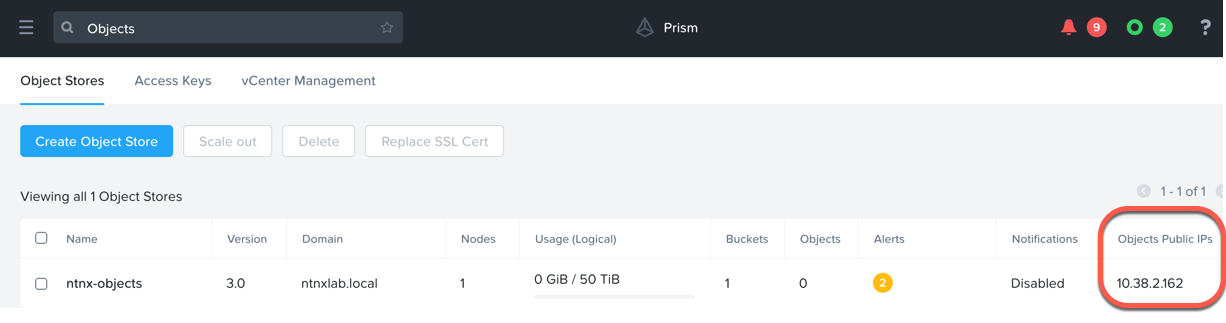
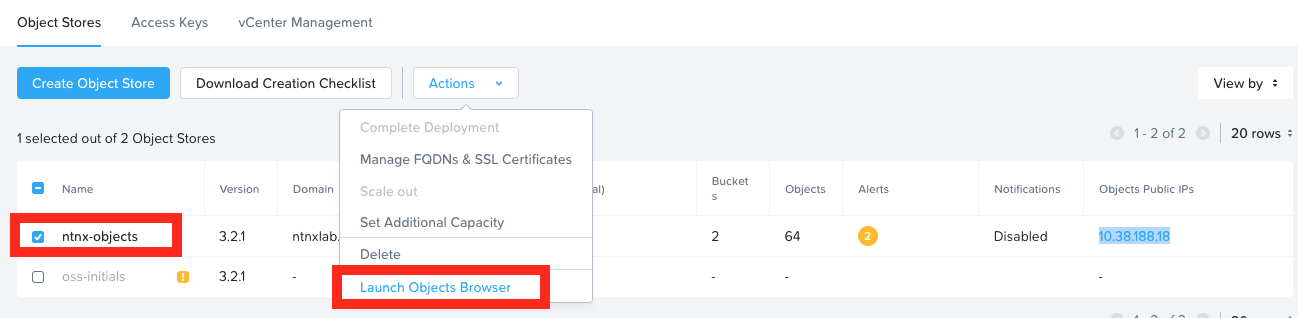
Mon 20 Dec 2021 19:35:54 JST

diff --git a/objects_cli_scripts/objects_cli_scripts.rst b/objects_cli_scripts/objects_cli_scripts.rst
@@ -23,7 +23,12 @@ You will need the **Access Key** and **Secret Key** for the user created earlier
 Setting up s3cmd (CLI)
 ......................
 
-#. From the *initials*-**Linux-ToolsVM**, run ``s3cmd --configure`` and enter the following to configure access to the Object Store:
+#. Login to the *initials*-**Linux-ToolsVM**, with the following credentials
+
+   - **Username** - root
+   - **Password** - default nutanix password
+
+#. Run ``s3cmd --configure`` and enter the following to configure access to the Object Store:
 
    .. note::
 
@@ -111,8 +116,10 @@ Create A Bucket And Add Objects To It Using s3cmd (CLI)
 
    .. code-block:: bash
 
-    curl https://s3.amazonaws.com/get-ahv-images/sample-pictures.zip [s3.amazonaws.com] -O -J -L
-    unzip sample-pictures.zip
+    curl https://peerresources.blob.core.windows.net/sample-data/SampleData_Small.zip -O -J -L
+    mkdir sample-pictures
+    #extract only the picture files
+    unzip -j SampleData_Small.zip *.png -d sample-pictures
 
 #. List images in sample-pictures folder
 
@@ -128,17 +135,20 @@ Create A Bucket And Add Objects To It Using s3cmd (CLI)
 
    .. code-block:: bash
 
-     s3cmd put --acl-public --guess-mime-type $IMAGENAME s3://<your-bucket-name>/$IMAGENAME.jpg
-
+     cd sample-pictures
+     s3cmd put --acl-public --guess-mime-type $IMAGENAME s3://<your-bucket-name>/$IMAGENAME
+     
 #. You should see the following output:
 
    .. code-block:: bash
 
-     s3://yourname-clibucket/image01.jpg
-     WARNING: Module python-magic is not available. Guessing MIME types based on file extensions.
-     upload: 'image01.jpg' -> 's3://xyz-cli-bob-bucket/image01.jpg'  [1 of 1]
-     1048576 of 1048576   100% in    7s   142.74 kB/s  done
-     Public URL of the object is: http://10.20.95.51:7200/xyz-cli-bob-bucket/image01.jpg
+     #example command and output 
+     
+     s3cmd put --acl-public --guess-mime-type yahoo-identity-provider-config.png s3://lb-cli-bucket/yahoo-identity-provider-config.png
+
+     upload: 'yahoo-identity-provider-config.png' -> 's3://lb-cli-bucket/yahoo-identity-provider-config.png'  [1 of 1]
+     63937 of 63937   100% in    0s     4.51 MB/s  done
+     Public URL of the object is: http://10.38.188.18/lb-clibucket/yahoo-identity-provider-config.png
 
 #. If desired, repeat with more images.
 
@@ -173,104 +183,112 @@ In this exercise, you will modify a sample script to match your environment, whi
 #. From the *Initials*\ **-Linux-ToolsVM**, run ``vi list-buckets.py`` and paste in the script below. You will need to modify the **endpoint_ip**, **access_key_id**, and **secret_access_key** values before saving the script.
 
 
- .. note::
+   .. note::
 
-   If you are not comfortable with ``vi`` or alternative command line text editors, you can modify the script in a GUI text editor then paste the completed script into ``vi``.
+    If you are not comfortable with ``vi`` or alternative command line text editors, you can modify the script in a GUI text editor then paste the completed script into ``vi``.
 
-   In ``vi``, type ``i`` and then right-click to paste into the text file.
+    In ``vi``, type ``i`` and then right-click to paste into the text file.
 
-   Press **Ctrl + C** then type ``:wq`` and press **Return** to save the file.
+    Press **Ctrl + C** then type ``:wq`` and press **Return** to save the file.
 
- .. code-block:: python
+   .. code-block:: python
 
-   #!/usr/bin/python
+      #!/usr/bin/python
 
-   import boto3
-   import warnings
-   warnings.filterwarnings("ignore")
+      import boto3
+      import warnings
+      warnings.filterwarnings("ignore")
 
-   endpoint_ip= "OBJECT-STORE-IP" #Replace this value
-   access_key_id="ACCESS-KEY" #Replace this value
-   secret_access_key="SECRET-KEY" #Replace this value
-   endpoint_url= "https://"+endpoint_ip+":443"
+      endpoint_ip= "OBJECT-STORE-IP" #Replace this value
+      access_key_id="ACCESS-KEY" #Replace this value
+      secret_access_key="SECRET-KEY" #Replace this value
+      endpoint_url= "https://"+endpoint_ip+":443"
 
-   session = boto3.session.Session()
-   s3client = session.client(service_name="s3", aws_access_key_id=access_key_id, aws_secret_access_key=secret_access_key, endpoint_url=endpoint_url, verify=False)
+      session = boto3.session.Session()
+      s3client = session.client(service_name="s3", aws_access_key_id=access_key_id, aws_secret_access_key=secret_access_key, endpoint_url=endpoint_url, verify=False)
 
-   # list the buckets
-   response = s3client.list_buckets()
+      # list the buckets
+      response = s3client.list_buckets()
 
-   for b in response['Buckets']:
-     print (b['Name'])
+      for b in response['Buckets']:
+        print (b['Name'])
 
 #. Execute ``python list-buckets.py`` to run the script. Verify that the output lists any buckets you have created for using your first user account.
 
 #. Using the previous script as a base, and the `Boto 3 documentation <https://boto3.amazonaws.com/v1/documentation/api/latest/guide/s3-examples.html>`_, can you modify the script to create a **new** bucket and then list all buckets?
-
- .. note::
-
-   Totally stuck? Take a look at the completed script :download:`here <create-bucket.py>`
-
-   If attempting to download the script results in an Access Denied error, log out of any AWS accounts from your browser or open the download link in **Incognito (Private Browsing)** mode.
 
 Uploading Multiple Files to Buckets with Python
 ...............................................
 
 #. From the *Initials*\ **-Linux-ToolsVM**, run the following to create 100 1KB files to be used as sample data for uploading:
 
- .. code-block:: bash
+   .. code-block:: bash
 
-   mkdir sample-files
-   for i in {1..100}; do dd if=/dev/urandom of=sample-files/file$i bs=1024 count=1; done
+     cd ..;mkdir sample-files
+     for i in {1..100}; do dd if=/dev/urandom of=sample-files/file$i bs=1024 count=1; done
 
- While the sample files contain random data, these could just as easily be log files that need to be rolled over and automatically archived, surveillance video, employee records, and so on.
+   While the sample files contain random data, these could just as easily be log files that need to be rolled over and automatically archived, surveillance video, employee records, and so on.
 
-#. Modify your existing script or create a new script based on the example below:
+#. Create a new script based on the example below:
 
- .. code-block:: python
+   .. code-block:: python
 
-   #!/usr/bin/python
+    #!/usr/bin/python
 
-   import boto3
-   import glob
-   import re
-   import warnings
-   warnings.filterwarnings("ignore")
+    import boto3
+    import glob
+    import re
+    import warnings
+    warnings.filterwarnings("ignore")
 
-   # user defined variables
-   endpoint_ip= "OBJECT-STORE-IP" #Replace this value
-   access_key_id="ACCESS-KEY" #Replace this value
-   secret_access_key="SECRET-KEY" #Replace this value
-   bucket="BUCKET-NAME-TO-UPLOAD-TO" #Replace this value
-   name_of_dir="sample-files"
+    # user defined variables
+    endpoint_ip= "OBJECT-STORE-IP" #Replace this value
+    access_key_id="ACCESS-KEY" #Replace this value
+    secret_access_key="SECRET-KEY" #Replace this value
+    bucket="BUCKET-NAME-TO-UPLOAD-TO" #Replace this value
+    name_of_dir="sample-files"
 
-   # system variables
-   endpoint_url= "https://"+endpoint_ip+":443"
-   filepath = glob.glob("%s/*" % name_of_dir)
+    # system variables
+    endpoint_url= "https://"+endpoint_ip+":443"
+    filepath = glob.glob("%s/*" % name_of_dir)
 
-   # connect to object store
-   session = boto3.session.Session()
-   s3client = session.client(service_name="s3", aws_access_key_id=access_key_id, aws_secret_access_key=secret_access_key, endpoint_url=endpoint_url, verify=False)
+    # connect to object store
+    session = boto3.session.Session()
+    s3client = session.client(service_name="s3", aws_access_key_id=access_key_id, aws_secret_access_key=secret_access_key, endpoint_url=endpoint_url, verify=False)
 
-   # go through all the files in the directory and upload
-   for current in filepath:
-       full_file_path=current
-       m=re.search('sample-files/(.*)', current)
-       if m:
-         object_name=m.group(1)
-       print("Path to File:",full_file_path)
-       print("Object name:",object_name)
-       response = s3client.put_object(Bucket=bucket, Body=full_file_path, Key=object_name)
+    # go through all the files in the directory and upload
+    for current in filepath:
+        full_file_path=current
+        m=re.search('sample-files/(.*)', current)
+        if m:
+          object_name=m.group(1)
+        print("Path to File:",full_file_path)
+        print("Object name:",object_name)
+        response = s3client.put_object(Bucket=bucket, Body=full_file_path, Key=object_name)
 
- The `put_object <https://boto3.amazonaws.com/v1/documentation/api/latest/reference/services/s3.html?highlight=put_object#S3.Bucket.put_object>`_ method is used for the file upload. Optionally this method can be used to define the metadata, content type, permissions, expiration, and other key information associated with the object.
+   The `put_object <https://boto3.amazonaws.com/v1/documentation/api/latest/reference/services/s3.html?highlight=put_object#S3.Bucket.put_object>`_ method is used for the file upload. Optionally this method can be used to define the metadata, content type, permissions, expiration, and other key information associated with the object.
 
- Core S3 APIs resemble RESTful APIs for other web services, with PUT calls allowing for adding objects and associated settings/metadata, GET calls for reading objects or information about objects, and DELETE calls for removing objects.
+   Core S3 APIs resemble RESTful APIs for other web services, with PUT calls allowing for adding objects and associated settings/metadata, GET calls for reading objects or information about objects, and DELETE calls for removing objects.
 
-#. Execute the script and use Cyberduck to verify the sample files are available.
+   Execute the script and use the following command to verify that the sample files are available.
 
- .. figure:: images/buckets_18.png
+   .. code-block:: bash
+    
+    s3cmd ls s3://yourname-clibucket/
 
- Similar S3 SDKs are available for languages including Java, JavaScript, Ruby, Go, C++, and others, making it very simple to leverage Nutanix Buckets using your language of choice.
+    # example command and output
+
+    s3cmd ls s3://lb-clibucket/
+
+    2021-12-20 05:56        18   s3://lb-clibucket/file1
+    2021-12-20 05:56        19   s3://lb-clibucket/file10
+    2021-12-20 05:56        20   s3://lb-clibucket/file100
+    2021-12-20 05:56        19   s3://lb-clibucket/file11
+    2021-12-20 05:56        19   s3://lb-clibucket/file20
+    2021-12-20 05:56        19   s3://lb-clibucket/file2
+    <output snipped>
+  
+Similar S3 SDKs are available for languages including Java, JavaScript, Ruby, Go, C++, and others, making it very simple to leverage Nutanix Buckets using your language of choice.
 
 Takeaways
 +++++++++

diff --git a/objects_versioning_access_control/objects_versioning_access_control.rst b/objects_versioning_access_control/objects_versioning_access_control.rst
@@ -22,27 +22,25 @@ Download the Sample Images
    - **Username** - NTNXLAB\\Administrator
    - **password** - nutanix/4u
 
-#. `Click here <https://s3.amazonaws.com/get-ahv-images/sample-pictures.zip>`_ to download the sample images to your Windows-ToolsVM. Once the download is complete, extract the contents of the .zip file.
+#. Use this `link <http://10.42.194.11/workshop_staging/peer/SampleData_Small.zip>`_ to download the sample files to your Windows-ToolsVM. Once the download is complete, extract the contents of the .zip file.
 
 Use Object Browser to Create A Bucket
 .....................................
 
-#. From the Objects UI, Locate the **Objects Public IPs**.
+#. From the Objects UI, Locate the **ntnx-objects** object store.
 
    .. figure:: images/objects_06.png
 
-#. In a new browser tab paste the **Objects Public IP**, and add port **7200**.
+#. The objects browser will open in a new tab
 
-   .. figure:: images/objects_06b.png
-
-#. Enter the following fields for the user created earlier, and click **Login** button:
+#. Enter the following fields from the downloaded key file (while you created user access) and click **Login** button:
 
    - **Access Key**  - *Generated When User Created*
    - **Secret Key** - *Generated When User Created*
 
    .. figure:: images/objects_08.png
 
-#. Click the **+** and **Create bucket**.
+#. Click the **+ Create bucket**.
 
    .. figure:: images/objects_08b.png
 
@@ -58,7 +56,9 @@ Use Object Browser to Create A Bucket
 
    Creating a bucket in this fashion allows for self-service for entitled users, and is no different than a bucket created via the Prism Buckets UI.
 
-#. Click into your *your-name*-**my-bucket** bucket, and Click the **+** and ***Upload file**.
+#. Click into your *your-name*-**my-bucket** bucket, and Click the **+** and **Upload Objects**.
+
+   .. figure:: images/objects_08c.png
 
 #. Navigate to your downloads directory and find the Sample Pictures folder. Upload one or more pictures to your bucket.
 

diff --git a/objects_buckets_users_access_control/objects_buckets_users_access_control.rst b/objects_buckets_users_access_control/objects_buckets_users_access_control.rst
@@ -23,8 +23,6 @@ A bucket is a sub-repository within an object store which can have policies appl
 
 #. The Objects Store management will open in a new browser tab 
 
-#. Click the **Name** of the existing Object Store (**NAME?**) to manage it.
-
 #. Click **Create Bucket**, and fill out the following fields:
 
    - **Name**  - *your-name*-my-bucket
@@ -112,7 +110,7 @@ Adding Users to buckets_share
 
    This is where you will be able to share your bucket with other users. You can configure read access (download), write access (upload), or both, on a per user basis.
 
-#. Add the user you created earlier, with *Read* and *Write* permissions
+#. Add the user (email address)you created earlier, with *Read* and *Write* permissions
 
    .. figure:: images/buckets_share.png
 
